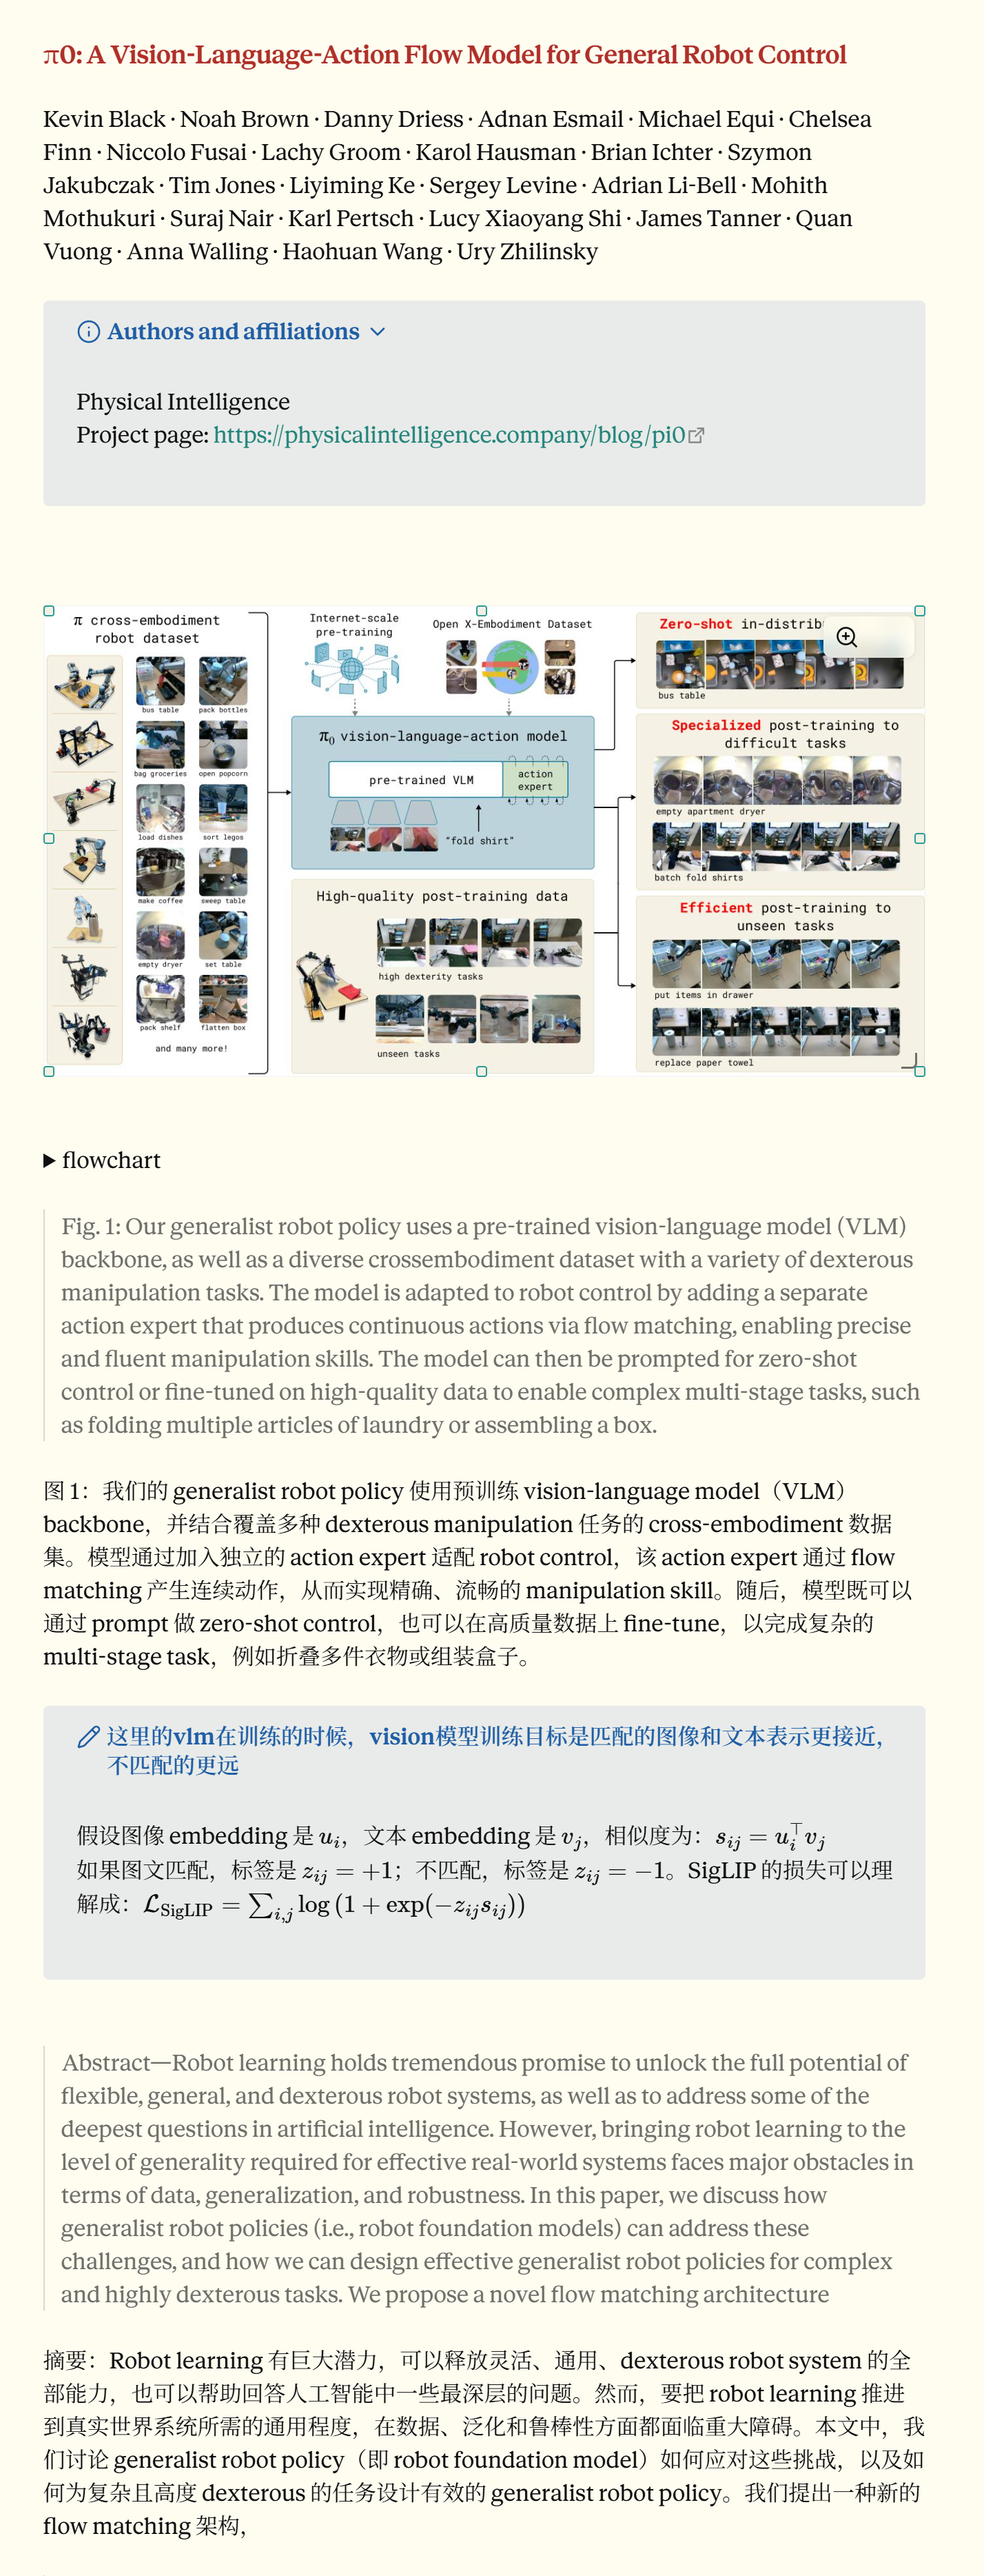
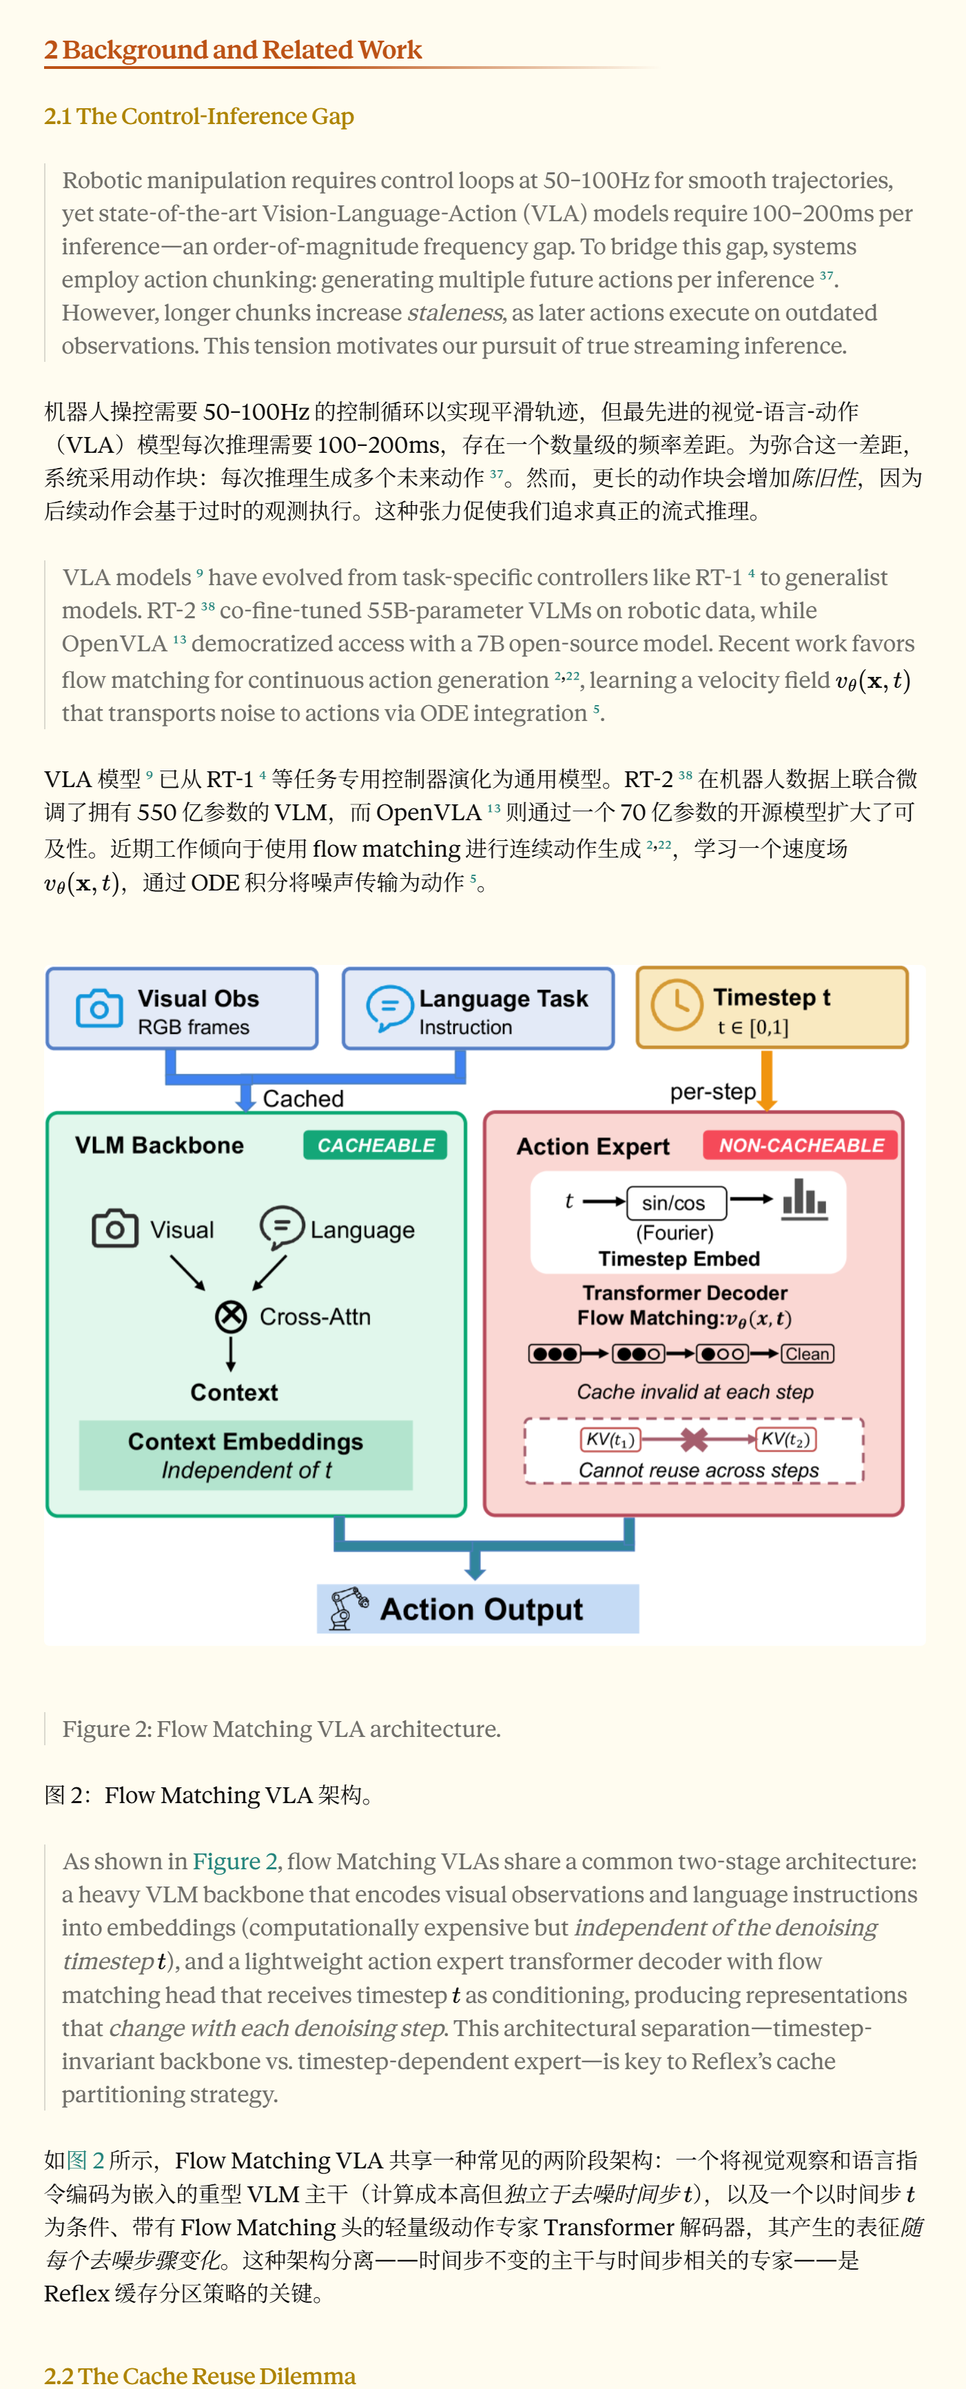
docs: simplify README and refresh conversion preview

diff --git a/README.md b/README.md
@@ -1,166 +1,74 @@
 # Markdown to Obsidian Paper Card
 
-以**论文排版与阅读体验**为核心的 Codex skill：将论文 Markdown 整理为适合 Obsidian 阅读的笔记，补齐图片超链接、文献上角标超链接引用与公式检查，并通过 subagent 生成完整中英对照。
-
-本仓库发布 skill 和本地 Python 工具，不包含私人 vault、Zotero 数据库、论文包、模型凭据或历史会话。代码采用 [MIT](LICENSE)；外部依赖和互操作来源见 [THIRD_PARTY_NOTICES.md](THIRD_PARTY_NOTICES.md)。
+以**论文排版与阅读体验**为核心的 Codex skill，支持图片超链接、文献上角标引用、公式校对，以及 subagent 中英对照翻译。
 
 ## 效果展示
 
 <a href="docs/images/paper-card-preview.png">
-  <img src="docs/images/paper-card-preview.png" alt="Obsidian 论文卡阅读示例：论文插图、英文原文、中文对照、公式与补充批注" width="560">
+  <img src="docs/images/paper-card-preview.png" alt="转换后效果图" width="560">
 </a>
 
-以 π0 论文为例，展示 Obsidian 中的插图、英文原文、中文对照和公式呈现。截图包含使用者补充的学习批注；实际外观取决于主题及插件，并非所有批注都由 skill 自动生成。点击图片可查看原图。
-
-论文内容与插图来自 [π0 项目](https://www.physicalintelligence.company/blog/pi0)，相关权利属于原作者；展示截图不适用本仓库代码的 MIT 许可。
+转换后效果图
 
 ## 能做什么
 
-### 1. 核心：让论文在 Obsidian 中更好读
+### 核心：论文排版
 
-- **图片超链接**：将正文中的 `Figure 1`、`Fig. 1` 等图号关联到对应图片，方便点击查看；配合 Obsidian 的悬停预览功能，可以直接预览图像。图片归档为 vault 内稳定的相对路径，避免临时路径失效。
-- **文献上角标超链接引用**：把正文中的数字文献引用整理为可点击的上角标，跳转到文末对应参考文献，减少阅读时反复查找编号的操作。
-- **公式排版**：检查 Obsidian/MathJax 所需的公式定界符，处理可确定识别的图注重复 TeX 显示内容，并在排版与翻译过程中保护公式。
-- **整体版式整理**：规范标题、摘要、图注、表格与参考文献，让网页剪藏或 OCR 得到的 Markdown 更适合连续阅读。
+- **图片超链接**：正文图号链接到对应图片，支持点击跳转与悬停预览。
+- **文献上角标超链接引用**：点击正文中的上角标，跳转至文末对应参考文献。
+- **公式校对**：检查公式定界符、修复可识别的重复显示问题，校验翻译前后的公式完整性。
+- **整体版式整理**：规范标题、摘要、图注、表格和参考文献，整理图片路径，清理网页剪藏噪声。
 
-图片目标或参考文献对应关系存在歧义时保留原文并报告，不猜测跳转目标。只需要排版时可选择 `translation-mode=none`。
+### Subagent 中英对照翻译
 
-### 2. 使用 subagent 翻译，生成中英对照
+使用专用翻译子代理生成逐段对应的英文原文与中文译文，保留公式和引用。参考文献保留英文书目信息，并附上中文题名。
 
-由专用 `paper-translation-worker` 原生子代理完成论文翻译，生成逐段对应的英文原文与中文译文，方便对照阅读和核查术语。正文、标题、图表说明等语义内容进入翻译流程；公式、引用和受保护标记在翻译前冻结、返回后校验。
+## 文件来源
 
-参考文献保留英文书目信息，只附加作品题名的中文翻译。已通过验证的译文可以缓存复用，减少中断恢复时重复翻译。完整双语流程使用 `translation-mode=bilingual`，需要先配置对应的 Codex 子代理运行环境。
+本 skill 处理 **Markdown 及其配套图片**。
 
-### 3. 公式校对与完整性检查
-
-检查行内 `$...$`、独立公式 `$$...$$` 的定界符配对，以及公式在翻译前后的保护标记与内容完整性；对可确定的重复显示问题进行修复。
-
-OCR 中的符号误识别、上下标含义和数学推导是否正确，需要结合原始 PDF 或 HTML 逐式复核。当前自动检查主要覆盖格式、渲染结构和传输完整性，不能把校验通过等同于数学语义已经正确。
-
-## 论文文件从哪里来
-
-本 skill 的处理入口是 **Markdown**。先把论文内容及图片准备好，再进行排版、公式检查和中英对照翻译。
-
-| 论文来源 | 推荐准备方式 | 交给本 skill 的内容 |
-| --- | --- | --- |
-| **PDF 论文** | 先通过 OCR/文档解析转换为 Markdown，推荐使用 [MinerU 线上转换](https://mineru.net/) | 导出的 `.md` 与配套图片；保持附件路径可解析 |
-| **HTML 论文**，例如 arXiv 提供的 HTML 全文 | 使用 [Obsidian Web Clipper](https://help.obsidian.md/web-clipper) 浏览器扩展直接剪藏到 vault，建议保存到 `Clippings/` | 剪藏得到的 Markdown；检查是否保留了全文、公式和图片 |
-| **已有 Markdown** | 直接提供文件，无需重新 OCR | `.md` 与可访问的图片资源，或带附件映射的 source package |
-| **Zotero 中的 PDF** | 可按题名定位本地附件，再走 PDF → Markdown 的解析步骤 | 已解析的 Markdown 或 source package；定位到 PDF 不代表已完成识别 |
-
-对于有 HTML 全文的论文，可以直接剪藏 HTML，不必先下载 PDF 再 OCR。剪藏完成后由本 skill 继续清理网页噪声、整理图文与引用，并按需翻译；只有摘要页时，不能将摘要剪藏当作论文全文。
-
-按题名启动时，先查找 `Clippings/`，再查找 `论文/`，最后才定位 Zotero 来源，优先复用已有 Markdown。MinerU 负责前置解析，本 skill 负责后续论文卡处理：可手动使用 MinerU 网站，也可另行安装 `mineru-api-markdown` skill。本仓库不附带该解析 skill，不调用 MinerU API，也不默认授予 PDF 上传许可。
-
-## 环境与安装
-
-需要 Python **3.11 或以上**。首版以 Windows 11 / PowerShell 为验证平台，不宣称 Linux、macOS 或其他 agent 宿主已经通过端到端验证。
-
-| 用途 | 依赖 |
+| 论文来源 | 准备方式 |
 | --- | --- |
-| 核心脚本、图片检查与测试 | `requirements.txt`：Pillow、PyYAML |
-| PDF figure 裁剪 | `requirements-pdf.txt`：另加 PyMuPDF；同时需要来源 PDF 和布局 JSON |
-| 命名 BibTeX 引文 | 单独安装 [Pandoc](https://pandoc.org/installing.html)，加入 PATH |
-| 原生双语翻译 | 已登录且支持自定义子代理的本地 Codex，可访问所选模型及本地 rollout |
-| Zotero 来源 | 用户自己的 Zotero 数据目录；只读解析，不修改原数据库 |
-| Spark 审查 | 可用的 `codex` CLI、相应模型权限和单独的数据发送授权 |
+| **PDF** | 先通过 OCR/文档解析转为 Markdown，推荐 [MinerU 线上转换](https://mineru.net/)，保留导出的图片附件。 |
+| **HTML 全文**，如 arXiv HTML 论文 | 使用 [Obsidian Web Clipper](https://help.obsidian.md/web-clipper) 直接剪藏到 vault 的 `Clippings/` 目录。 |
+| **已有 Markdown** | 直接提供文件及配套图片。 |
+| **Zotero** | 按题名定位论文；PDF 附件先完成 Markdown 转换。 |
 
-以下命令用于**首次安装到不存在的目标目录**，不要覆盖已有同名 skill。也可以将维护仓库放在代码目录，再仅将发布文件复制到自己的 skill 目录。
+## 安装
+
+需要 **Python 3.11+、Obsidian 和支持自定义子代理的 Codex**。当前双语翻译使用 `gpt-5.6-terra`，推理强度为 `high`。
+
+在 PowerShell 中运行：
 
 ```powershell
 $skillRoot = Join-Path $env:USERPROFILE '.agents/skills/markdown-to-obsidian-paper-card'
 git clone https://github.com/le876/markdown-to-obsidian-paper-card.git $skillRoot
 Set-Location -LiteralPath $skillRoot
 py -3 -m venv .venv
-& ./.venv/Scripts/python.exe -I -X utf8 -m pip install -r requirements.txt
-```
-
-需要 PDF 裁剪时再安装 `requirements-pdf.txt`。这不是必需组件，PyMuPDF 使用其自身的 AGPL/商业许可，而不是本仓库的 MIT 许可。
-
-当前 Codex 文档支持用户级 `~/.agents/skills` 发现；若已在其他目录安装同名 skill，应只保留一个启用入口，避免重复选择。参见 [Codex skill 文档](https://developers.openai.com/codex/skills)。
-
-## 先运行离线格式整理
-
-下面只使用仓库内合成测试文本，不调用翻译模型。将 `D:/Notes/DemoVault` 换为你自己的测试 vault，命令从 skill 根目录执行。
-
-```powershell
-$vaultRoot = 'D:/Notes/DemoVault'
 $paperPython = Join-Path $skillRoot '.venv/Scripts/python.exe'
-New-Item -ItemType Directory -Path $vaultRoot -Force | Out-Null
-& $paperPython -X utf8 scripts/build_obsidian_paper_card.py --input-markdown tests/fixtures/forward_runtime/source.md --vault-root $vaultRoot --output-note "$vaultRoot/论文/Demo.md" --translation-mode none
-```
+& $paperPython -I -X utf8 -m pip install -r requirements.txt
 
-上面没有 `--write`，只返回 dry-run JSON；确认目标后加 `--write` 完成写入。输出会生成 Markdown 和 `.card-report.json`。输入输出相同时必须显式指定 `--in-place`，覆盖前会创建备份。示例没有远程资源，所以无需网络；实际输入含远程图片时请阅读下方数据边界。
-
-## 配置并运行双语流程
-
-双语标准路径由 **Codex 父任务 + 一个原生翻译子代理** 协作完成。直接运行 Python 不会自己启动原生子代理；`awaiting_native_subagent` 是正常交接状态，不是翻译完成。
-
-用仓库规范生成目标 vault 的角色配置。下面的 `--write` 会创建或更新指定角色文件；已有自定义同名角色时先备份并审查差异。
-
-```powershell
+# 改为自己的 Obsidian vault 路径，生成翻译子代理配置
+$vaultRoot = 'D:/Notes/MyVault'
 & $paperPython -X utf8 scripts/sync_paper_translation_agent_prompt.py --agent-path "$vaultRoot/.codex/agents/paper-translation-worker.toml" --write
-& $paperPython -X utf8 scripts/sync_paper_translation_agent_prompt.py --agent-path "$vaultRoot/.codex/agents/paper-translation-worker.toml" --check
 ```
 
-生成器包含 `name`、`description`、模型及权威翻译指令。按当前 [Codex 自定义子代理文档](https://developers.openai.com/codex/subagents)，项目角色放在 `.codex/agents/`；在该 vault 中重新打开任务，确认可选择 `paper-translation-worker`。项目配置应允许子代理；不要以整份他人的配置覆盖自己的配置。
+安装后，在该 vault 中重新打开 Codex。
 
-默认翻译角色使用 `gpt-5.6-terra` / `high`，可选 Spark 使用 `gpt-5.3-codex-spark`。这些是本版本的运行配置，不保证每个账号或客户端都有权限。当前 builder 冻结该翻译模型与推理强度；仅改变角色生成器的 `--model` / `--reasoning-effort` 不能切换整条流水线，会触发一致性校验失败。模型不可用时可使用 `translation-mode=none`；双语模式需先满足该运行条件，或由维护者完成统一模型配置变更及回归验证。不要编辑运行证明或生成文件中的权威提示词来绕过错误。
+可选依赖：PDF 图片裁剪使用 `requirements-pdf.txt`；命名 BibTeX 引文解析需要 [Pandoc](https://pandoc.org/installing.html)。
 
-在 Codex 中明确使用这个 skill，并提供源 Markdown 与目标 vault，例如：
+## 使用
 
-> 使用 $markdown-to-obsidian-paper-card，把我指定的论文 Markdown 做成完整中英对照阅读卡，保存到当前 vault 的论文目录。允许为这篇论文使用配置的 paper-translation-worker 翻译子代理。
+在 Codex 中指定 skill 和论文：
 
-父任务执行的入口示例：
+> 使用 $markdown-to-obsidian-paper-card，将 Clippings 中的《论文题名》整理为完整中英对照论文卡，保存到论文目录，使用翻译子代理完成翻译。
 
-```powershell
-& $paperPython -X utf8 scripts/build_obsidian_paper_card.py --input-markdown 'D:/Papers/source.md' --vault-root $vaultRoot --output-note "$vaultRoot/论文/Paper.md" --translation-mode bilingual --translation-stage run --workflow-dir "$vaultRoot/.tmp/paper-card-workflows/demo" --write
-```
+只需要排版时：
 
-父任务按 [SKILL.md](SKILL.md) 处理返回的 `spawn_agent` 交接对象，执行 layout、等待子代理、导入运行证明，再 finalize。不要手工伪造缓存、attestation 或模型完成状态。CLI 的每阶段与排版参数详见 `--help`。
+> 使用 $markdown-to-obsidian-paper-card，整理这篇 Markdown 的图片、文献上角标引用和公式排版，不翻译正文。
 
-### 按题名使用 Zotero
+也可以直接提供 Markdown 文件路径。默认输出到 vault 的 `论文/` 目录。
 
-```powershell
-& $paperPython -X utf8 scripts/start_obsidian_paper_card.py --title 'Exact Paper Title' --zotero-data-dir 'D:/Zotero' --vault-root $vaultRoot --snapshot-directory "$vaultRoot/.tmp/zotero-snapshots" --workflow-dir "$vaultRoot/.tmp/paper-card-workflows/demo"
-```
+## 许可
 
-这个入口会写入工作流，不是 dry-run。先搜索 vault；仅在需要时读取 Zotero 并建立短期数据库快照。题名或 PDF 歧义会返回错误。返回 `requires_markdown_parse`（退出码 3）表示已经定位 PDF，但还需要独立解析阶段；它不代表上传已获授权或论文卡已完成。
-
-## 数据与隐私边界
-
-| 操作 | 数据流向 |
-| --- | --- |
-| 本地整理、引文、PDF 裁剪、Zotero 解析 | Python 在本地读取用户指定文件并写入指定 vault/工作流目录 |
-| 原生翻译 | 父 Codex 任务读取源文件；冻结的正文、标题和必要书目单元经 Codex 发送给配置的模型服务 |
-| 可选 Spark | 当前论文 Markdown 和排版规范经 Codex CLI 发送给所选模型；须有针对该文档的授权 |
-| 远程图片 | 下载输入 Markdown 引用的图片；原站会收到 URL 请求及网络连接信息 |
-| 可选 MinerU | 独立解析工具可能上传 PDF；必须由当前用户授权具体文件和目标服务 |
-
-原生 bridge 的 `--discover-rollout` 会遍历本机 `~/.codex/sessions` 下的候选 rollout，以找到匹配的原生子代理记录；该目录可能包含其他私人会话。可用 `--sessions-root` 缩小范围，或用 `--rollout-path` 指向明确的当前子代理记录。这个读取用于本地验证，脚本没有将会话目录上传 GitHub 的功能。
-
-工作流、report 和 attestation 可能包含论文内容、本地绝对路径、来源 URL、模型与会话标识，即使最终图片使用相对路径也不表示工作流已经匿名化。将运行目录放在发布仓库之外；不要把真实日志、数据库、论文、截图或会话直接附在公开 issue 中。使用合成输入复现问题，并在分享前自行审查。`.gitignore` 只降低误提交概率，不会清除已经提交的历史。
-
-本项目不读取或附带个人 API key。Codex 的账号、服务、保留策略和宿主权限由用户自己的环境决定；本仓库不会替用户授予历史授权，也不通过修改账号、代理或关闭验证来绕过错误。
-
-## 验证与维护
-
-```powershell
-& $paperPython -I -X utf8 -m unittest discover -s tests -v
-& $paperPython -I -X utf8 -m compileall -q scripts tests
-git diff --check
-```
-
-首版验证使用 Windows / Python 3.12、合成数据和本地测试环境。测试覆盖 Zotero 顺序与歧义、图片及引文、公式 token、角色冻结、原生证明验证、缓存、恢复和原子写入。测试里的模型结果/rollout 是合成记录；通过测试不等于完成真实模型翻译。首版发布检查未调用真实翻译模型、Spark 或 MinerU，未执行 Obsidian GUI 验收。
-
-后续在维护仓库修改并测试，审查差异后再安装到运行目录。只推送源码及合成测试素材；每次发布检查暂存文件和提交身份。不要将当前运行目录反向整体覆盖到维护仓库。
-
-### 区分维护仓库与安装副本
-
-维护仓库目录建议命名为 `markdown-to-obsidian-paper-card-publish`，用于开发、测试、审查与推送；安装目录保持 `markdown-to-obsidian-paper-card`，用于实际转换论文。目录后缀不改变 GitHub 仓库名或 skill 的 `name`。
-
-```powershell
-git clone https://github.com/le876/markdown-to-obsidian-paper-card.git markdown-to-obsidian-paper-card-publish
-```
-
-已有独立维护仓库可以只重命名其目录；安装副本无需改名。更新仍从维护仓库经测试和审查后单向安装，不将运行数据同步到发布仓库。
+[MIT](LICENSE) · [第三方声明](THIRD_PARTY_NOTICES.md)

diff --git a/THIRD_PARTY_NOTICES.md b/THIRD_PARTY_NOTICES.md
@@ -43,10 +43,6 @@ SOFTWARE.
 
 ## README demonstration screenshot
 
-`docs/images/paper-card-preview.png` is a user-supplied screenshot of an Obsidian
-reading note. It includes paper text and a figure from
-[π0: A Vision-Language-Action Flow Model for General Robot Control](https://www.physicalintelligence.company/blog/pi0),
-as well as reader-added annotations. The paper material remains the property of
-its respective authors/rightsholders. The screenshot is provided for demonstration
-and is excluded from this repository's MIT license; no permission to redistribute
-the underlying paper material is granted by the code license.
+The user-supplied screenshot in `docs/images/paper-card-preview.png` includes
+third-party paper text and figures. Rights to that material remain with the
+respective authors; it is not covered by the code's MIT license.
